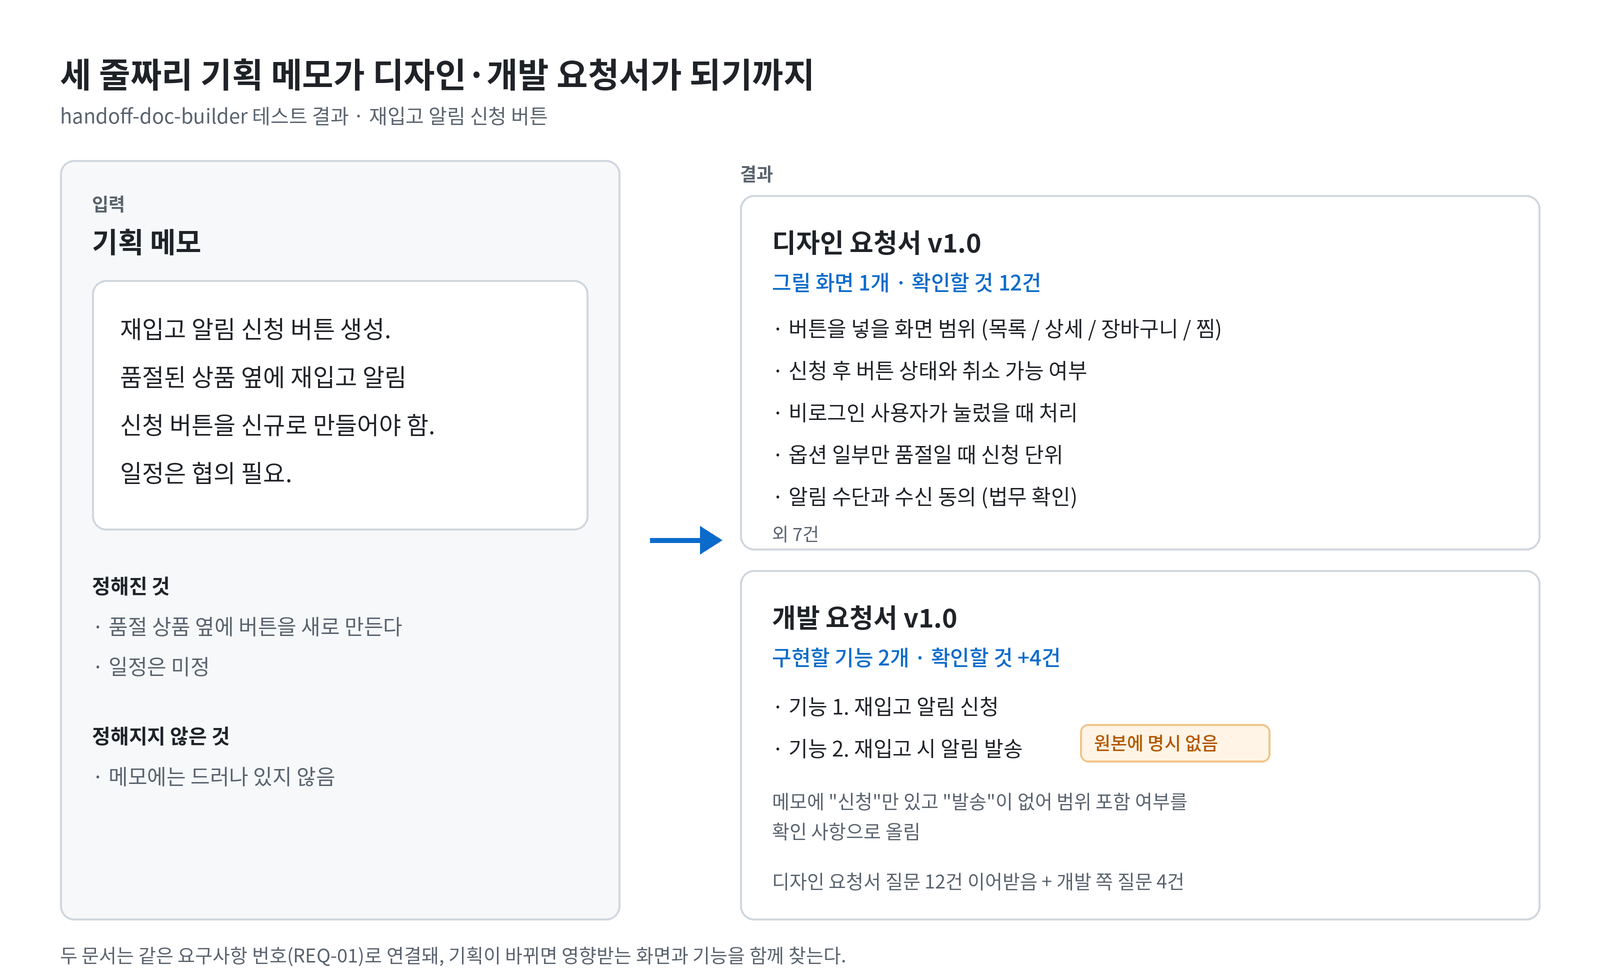
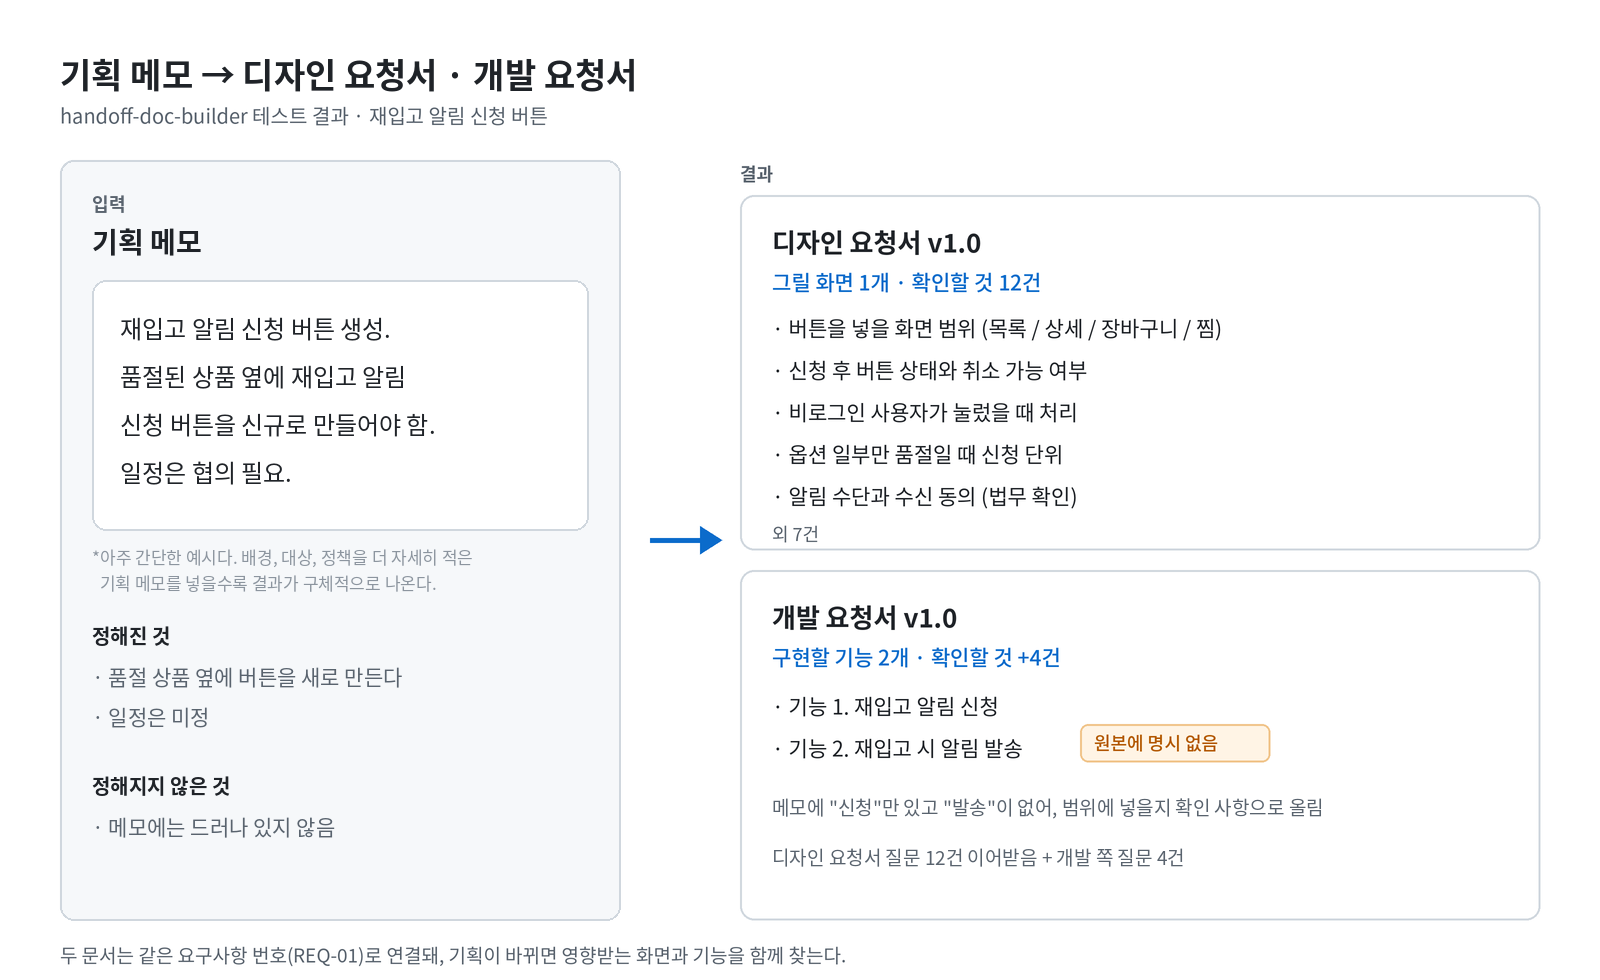
Update result images

diff --git a/README.md b/README.md
@@ -17,13 +17,13 @@ Claude 스킬은 특정 업무의 작업 순서, 양식, 점검 기준을 묶은
 
 ### 메모 → 원페이저 + PRD (prd-1pager-builder)
 
-![한 줄 메모가 원페이저와 PRD가 되기까지](docs/images/memo-vs-prd.png)
+![기획 메모 → 원페이저 · PRD](docs/images/memo-vs-prd.png)
 
 한 줄짜리 메모([input-memo.md](examples/withdrawal-retention/input-memo.md))로 [원페이저](examples/withdrawal-retention/one-pager.md)와 [PRD](examples/withdrawal-retention/prd.md)를 만든 결과입니다. 메모에 없던 근거·지표·정책은 지어내지 않고 (가정), 미정, 확인 필요 사항으로 남겼습니다. 탈퇴 관련 법 기준은 작성 중에 별도로 찾아 확인한 내용을 16장 제약에 넣었습니다.
 
 ### 메모 → 디자인·개발 요청서 (handoff-doc-builder)
 
-![세 줄 메모가 디자인·개발 요청서가 되기까지](docs/images/memo-vs-handoff.png)
+![기획 메모 → 디자인 요청서 · 개발 요청서](docs/images/memo-vs-handoff.png)
 
 세 줄짜리 메모([input-memo.md](examples/restock-alert/input-memo.md))로 [디자인 요청서](examples/restock-alert/design-request.md)와 [개발 요청서](examples/restock-alert/dev-request.md)를 만든 결과입니다. 메모에 없던 "알림 발송" 기능이 개발 요청서 단계에서 빈 곳으로 드러났습니다.
 
